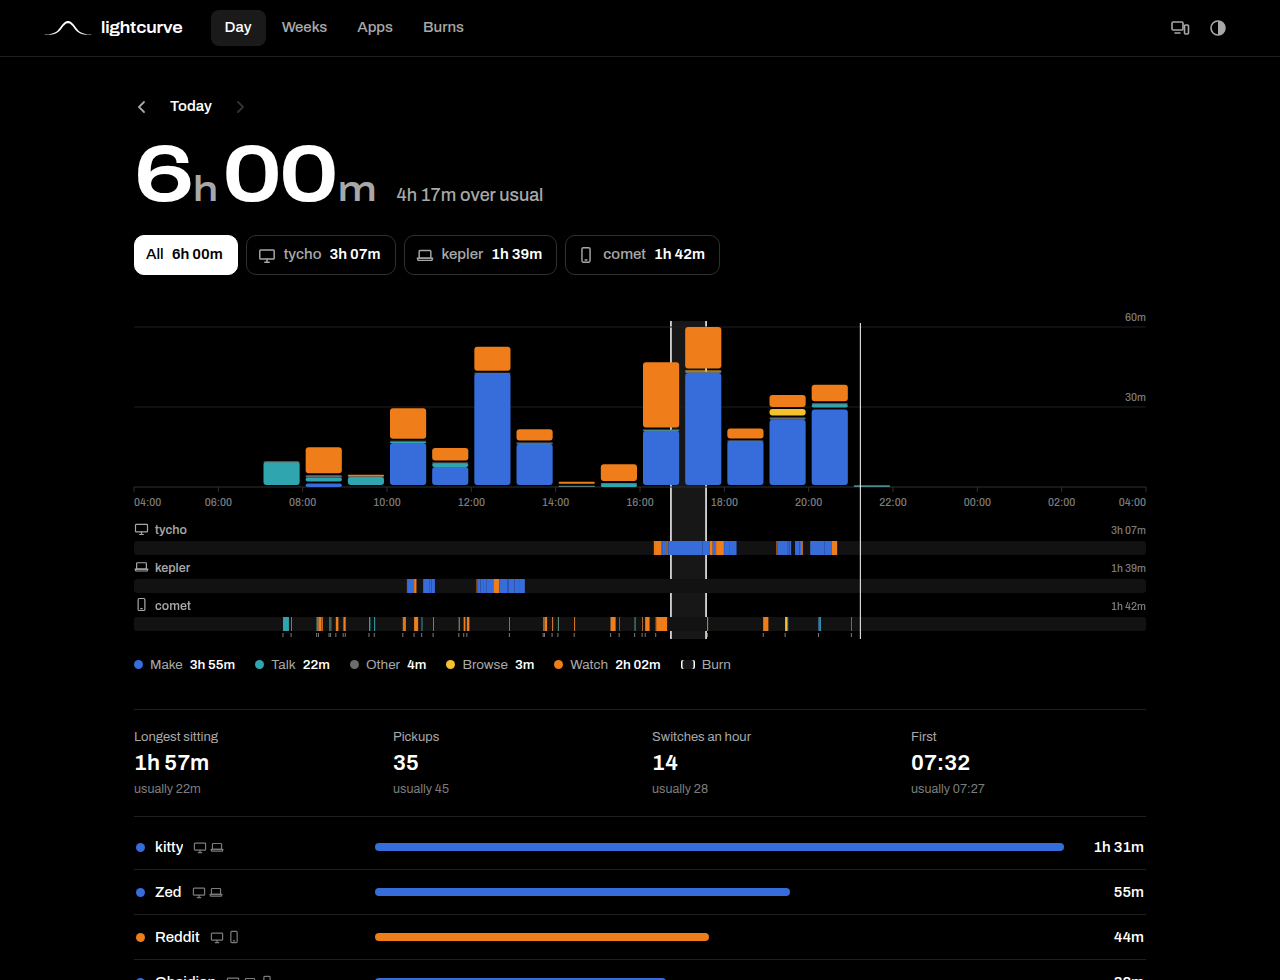
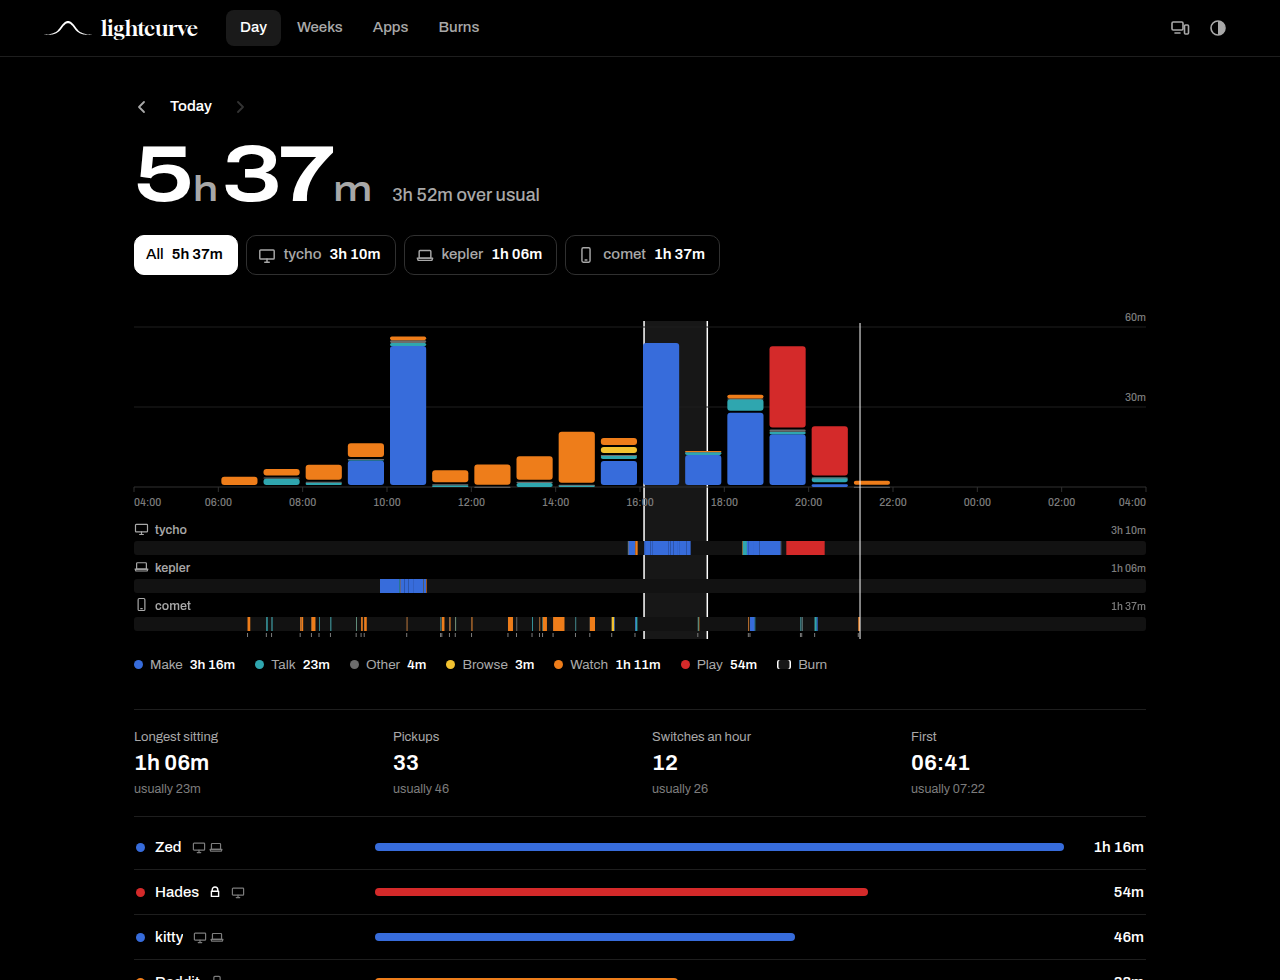
Screenshots and README for the Gloock wordmark
Retaken from demo data with the new name in the header, and the README's
font credit now names Gloock too.

diff --git a/README.md b/README.md
@@ -105,7 +105,7 @@ The comparison of days with and without a burn only appears once there are three
 
 ## Built on
 
-Python's standard library for the hub, the tracker's storage and the command; `python-dbus` and GLib for talking to KWin. The idle detection speaks the Wayland `ext-idle-notify-v1` protocol directly. The Android app is plain Kotlin with no libraries. The dashboard is one HTML file, one stylesheet and one script, set in [Archivo](https://fonts.google.com/specimen/Archivo) (SIL Open Font License, shipped in `web/fonts`).
+Python's standard library for the hub, the tracker's storage and the command; `python-dbus` and GLib for talking to KWin. The idle detection speaks the Wayland `ext-idle-notify-v1` protocol directly. The Android app is plain Kotlin with no libraries. The dashboard is one HTML file, one stylesheet and one script, set in [Archivo](https://fonts.google.com/specimen/Archivo), with the name in [Gloock](https://fonts.google.com/specimen/Gloock) (both SIL Open Font License, shipped in `web/fonts`).
 
 ## Disclaimer
 
